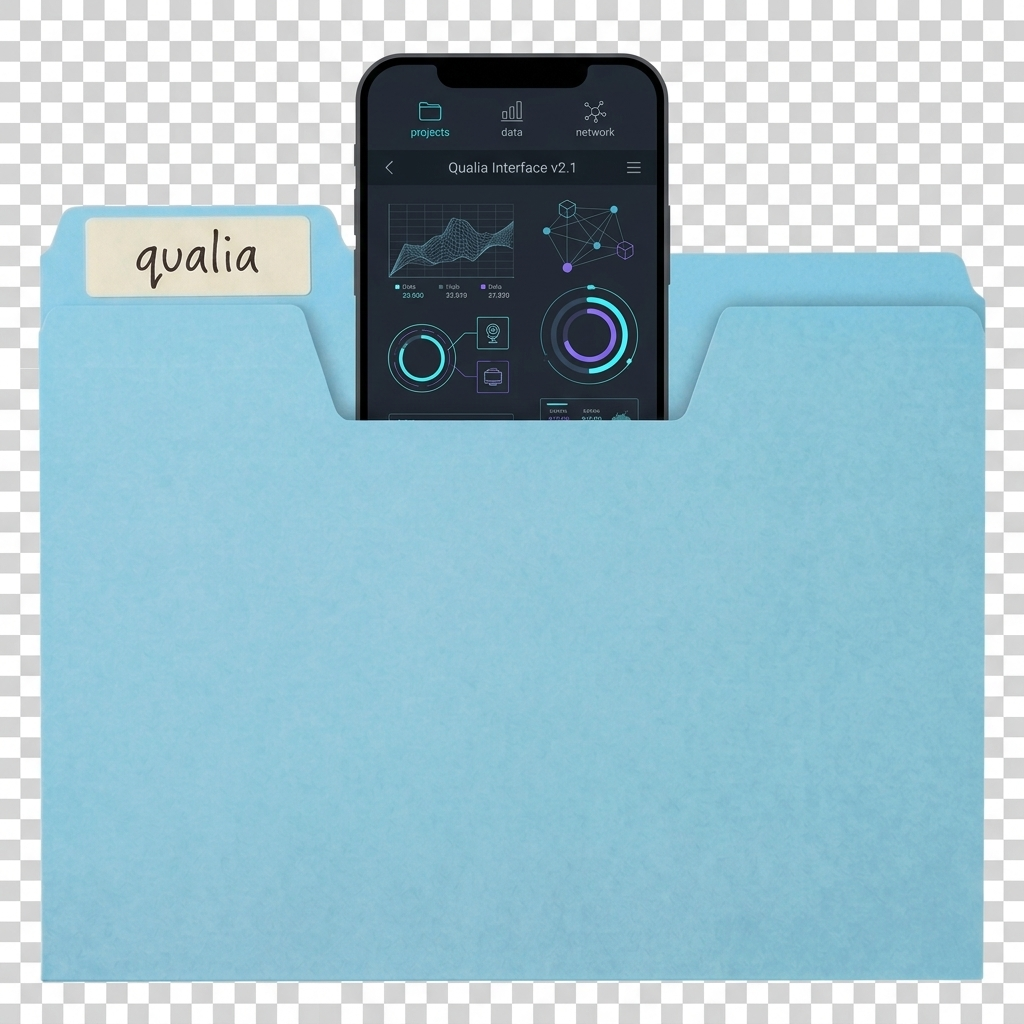
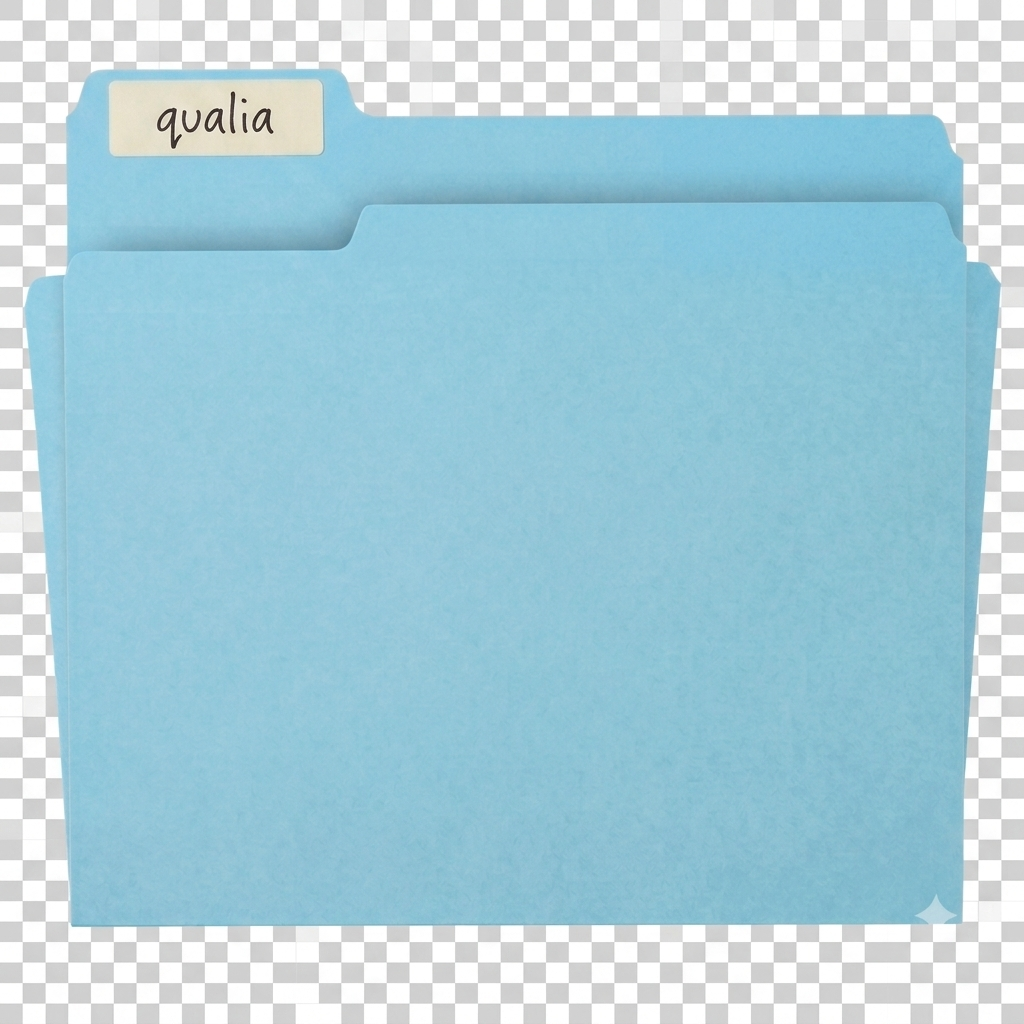
style(motion): replace folder open mockups with empty frontal folders and restore sticker styles

diff --git a/src/components/Works.css b/src/components/Works.css
@@ -149,19 +149,59 @@
   appearance: none;
 }
 
-.project-frame:focus-visible {
-  outline: 2px solid var(--primary);
-  outline-offset: 6px;
-  border-radius: 4px;
+/* Sticker overlaid on folder card — static wrapper */
+.project-sticker-static {
+  position: absolute;
+  pointer-events: none;
+  z-index: 5;
+  perspective: 800px;
 }
 
-.project-frame img {
-  width: 100%;
-  height: 100%;
-  object-fit: contain;
-  object-position: bottom center;
+/* Sticker cliccabile — wrapper <a> */
+.project-sticker-link {
+  position: absolute;
   display: block;
-  pointer-events: none;
+  z-index: 5;
+  cursor: pointer;
+  perspective: 800px;
+}
+
+.project-sticker-link:hover {
+  z-index: 6; /* Bring hovered sticker to the front */
+}
+
+/* The actual sticker image inside link or static wrappers */
+.project-sticker-img {
+  display: block;
+  width: 100%;
+  height: auto;
+  filter: drop-shadow(0.5px 1px 0.5px rgba(33, 37, 41, 0.18));
+  transform-origin: center bottom;
+  transition: transform 0.45s cubic-bezier(0.34, 1.56, 0.64, 1), filter 0.45s ease;
+  will-change: transform, filter;
+}
+
+/* Interactive sticker peels off when hovered directly */
+.project-sticker-link:hover .project-sticker-img {
+  transform: translateY(-8px) rotateX(22deg) scale(1.08);
+  filter: drop-shadow(4px 12px 8px rgba(33, 37, 41, 0.28));
+}
+
+.project-sticker-link:active .project-sticker-img {
+  transform: translateY(-2px) rotateX(5deg) scale(0.98);
+  filter: drop-shadow(1px 2px 2px rgba(33, 37, 41, 0.2));
+}
+
+/* Static sticker lifts slightly when parent folder is hovered */
+.project-frame-container:hover .project-sticker-static .project-sticker-img {
+  transform: translateY(-2px) rotate(-1deg);
+  filter: drop-shadow(1.5px 3px 3px rgba(33, 37, 41, 0.15));
+}
+
+.project-sticker-link:focus-visible {
+  outline: 2px solid var(--primary);
+  outline-offset: 4px;
+  border-radius: 4px;
 }
 
 .project-frame {